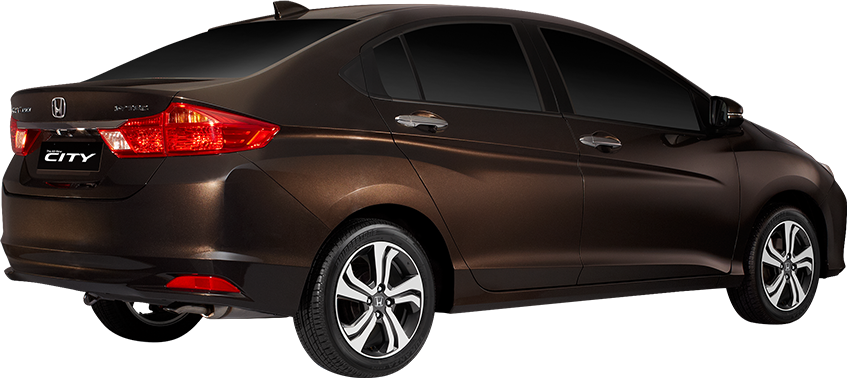
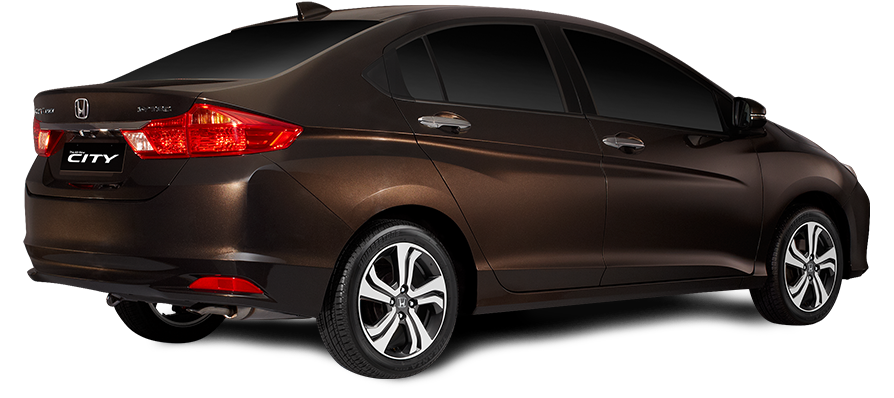
refactor: fix rotation for city with skirt

diff --git a/js/variables.js b/js/variables.js
@@ -354,10 +354,10 @@ var adjustment = {
 				'1' : { 'x' : 25, 'y' : 110 },
 				'2' : { 'x' : 20, 'y' : 110 },
 				'3' : { 'x' : 20, 'y' : 110 },
-				'4' : { 'x' : 20, 'y' : 130 },
+				'4' : { 'x' : 34, 'y' : 136 },
 				'5' : { 'x' : 20, 'y' : 110 },
-				'6' : { 'x' : 20, 'y' : 130 },
-				'7' : { 'x' : 25, 'y' : 105 },
+				'6' : { 'x' : 34, 'y' : 136 },
+				'7' : { 'x' : 33, 'y' : 105 },
 				'8' : { 'x' : 20, 'y' : 105 }
 			},
 			'rims' : {
@@ -383,14 +383,14 @@ var adjustment = {
 				'8' : { 'x' : 20, 'y' : 110 }
 			},
 			'skirt' : {
-				'1' : { 'x' : 20, 'y' : 110 },
+				'1' : { 'x' : 25, 'y' : 110 },
 				'2' : { 'x' : 20, 'y' : 110 },
 				'3' : { 'x' : 20, 'y' : 110 },
-				'4' : { 'x' : 20, 'y' : 110 },
+				'4' : { 'x' : 21, 'y' : 127 },
 				'5' : { 'x' : 20, 'y' : 110 },
-				'6' : { 'x' : 20, 'y' : 110 },
-				'7' : { 'x' : 20, 'y' : 110 },
-				'8' : { 'x' : 20, 'y' : 110 }
+				'6' : { 'x' : 21, 'y' : 127 },
+				'7' : { 'x' : 35, 'y' : 110 },
+				'8' : { 'x' : 26, 'y' : 104 }
 			},
 			'spoiler' : {
 				'1' : { 'x' : 20, 'y' : 110 },
@@ -432,10 +432,10 @@ var adjustment = {
 				'1' : { 'width' : 490 },
 				'2' : { 'width' : 500 },
 				'3' : { 'width' : 500 },
-				'4' : { 'width' : 550 },
+				'4' : { 'width' : 520 },
 				'5' : { 'width' : 500 },
-				'6' : { 'width' : 550 },
-				'7' : { 'width' : 500 },
+				'6' : { 'width' : 520 },
+				'7' : { 'width' : 480 },
 				'8' : { 'width' : 500 }
 			},
 			'rims' : {
@@ -461,14 +461,14 @@ var adjustment = {
 				'8' : { 'width' : 500 }
 			},
 			'skirt' : {
-				'1' : { 'width' : 500 },
+				'1' : { 'width' : 490 },
 				'2' : { 'width' : 500 },
 				'3' : { 'width' : 500 },
-				'4' : { 'width' : 550 },
+				'4' : { 'width' : 545 },
 				'5' : { 'width' : 500 },
-				'6' : { 'width' : 550 },
-				'7' : { 'width' : 500 },
-				'8' : { 'width' : 500 }
+				'6' : { 'width' : 545 },
+				'7' : { 'width' : 470 },
+				'8' : { 'width' : 490 }
 			},
 			'spoiler' : {
 				'1' : { 'width' : 500 },

diff --git a/index.html b/index.html
@@ -434,7 +434,7 @@
                         <img src="images/assets/city/buttons/skirt/2.png" alt="Side Skirts 1" width="120">
                         <p>Side Skirt 1</p>
                     </div>
-                    <div class="city-customizer-skirt-3 customizer-item-3-1 pull-left customizer-selector typer-skirt"><img src="images/assets/city/buttons/skirt/3.png" alt="Side Skirts 2" width="120">
+                    <div class="city-customizer-skirt-3 customizer-item-3-1 pull-left customizer-selector type-skirt"><img src="images/assets/city/buttons/skirt/3.png" alt="Side Skirts 2" width="120">
                         <p>Side Skirt 2</p>
                     </div>
                     <div class="city-customizer-spoiler-2 customizer-item-3-1 pull-left customizer-selector type-spoiler"><img src="images/assets/city/buttons/spoiler/2.png" alt="Spoiler 1" width="120">
